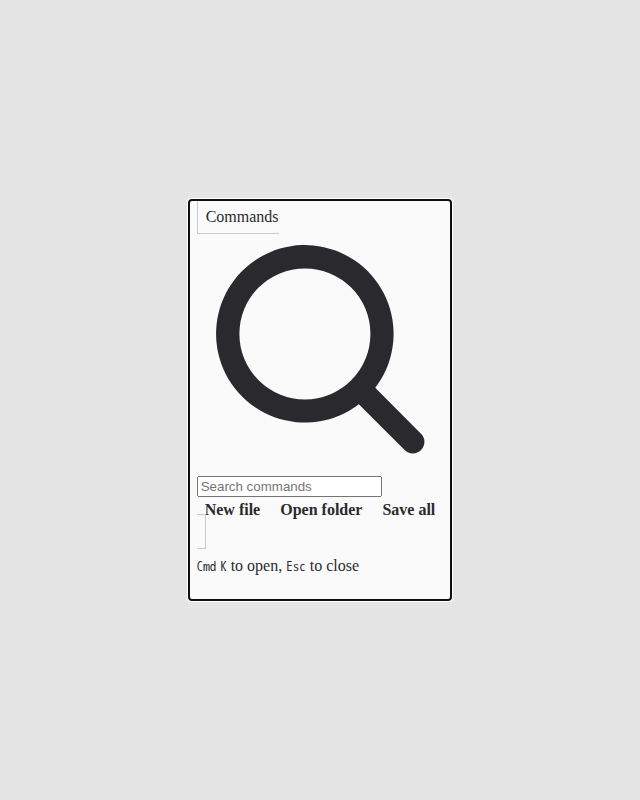
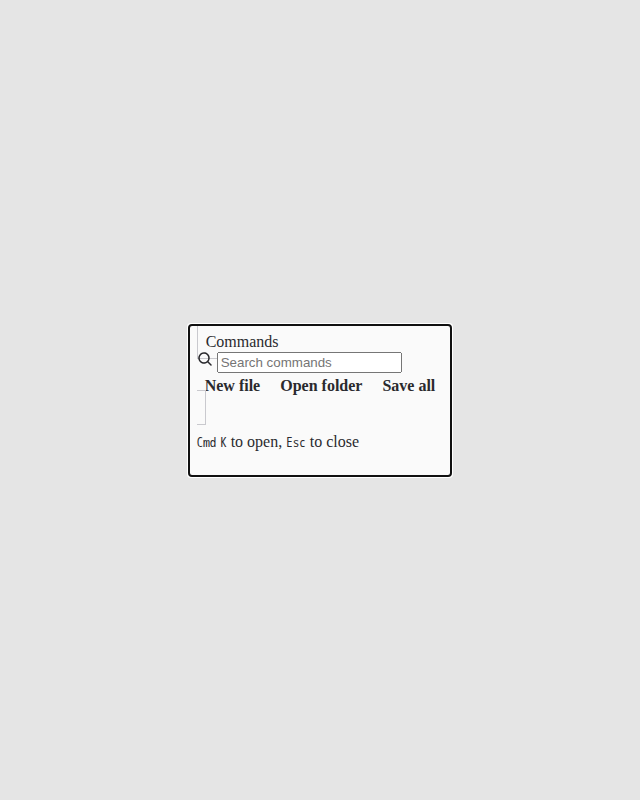
fix(helix/command): export the one part it draws through
160. The headless Command drew its filter mark at 247 by 247 where the styled one
draws 16, and the export was the fault rather than the size.

Every glyph the headless tier draws is unsized: twelve of them, across Accordion,
Announcement, Callout, Drilldown, Menu, Number Input, Tag, Timeline, Toast and
Listbox, each relying on a consumer sizing it through the exported part. That is
the convention rather than an oversight, and it works wherever the part is
reachable.

Command's was not. It rendered the listbox with `exportparts="items, empty,
search, search-field"`, four of the five parts it draws through, and the fifth is
the one with a picture in it. So `filter-mark` joins the list, alphabetised, and
is declared as a `@csspart` so the manifest carries it and
`build-base-examples.mjs` writes the rule its `[a-z-]+-mark` branch already knew
how to write.

The baseline is retaken in the same commit, because a fix and its picture
disagreeing is the state this check exists to prevent.

The guard proved itself on the way: `check:visual` reported exactly one family
moved, 19,015 pixels in Command and nothing anywhere else.

Changed region(s): [[0.2812, 0.25, 0.6875, 0.5625], [0.2812, 0.5938, 0.7188, 0.75], [0.6875, 0.25, 0.7188, 0.4062]]

diff --git a/helix/headless/src/command/root/command-root.ts b/helix/headless/src/command/root/command-root.ts
@@ -73,6 +73,7 @@ const parse = (hotkey: string) => {
  * @csspart listbox - The list inside it.
  * @csspart items - The scrolling box of commands, forwarded from the listbox.
  * @csspart empty - What shows where the filter has hidden everything.
+ * @csspart filter-mark - The glyph beside the field, forwarded from the listbox.
  * @csspart search - The region holding the field that narrows the list.
  * @csspart search-field - The field itself.
  * @csspart footer - The row under the list.
@@ -311,7 +312,7 @@ export class HelixBaseCommand extends MixinControllerOpen(HelixElement) {
     >
       <${this.tag('listbox')}
         part="listbox"
-        exportparts="items, empty, search, search-field"
+        exportparts="empty, filter-mark, items, search, search-field"
         aria-label=${this.label}
         empty-text=${this.emptyText}
         filter-label=${this.placeholder}

diff --git a/helix/web/src/command/.examples/base.css b/helix/web/src/command/.examples/base.css
@@ -63,6 +63,12 @@ helix-base-command::part(items) {
   gap: 0.25rem;
 }
 
+helix-base-command::part(filter-mark) {
+  block-size: 1em;
+  flex: none;
+  inline-size: 1em;
+}
+
 helix-base-option::part(item) {
   background-color: transparent;
   border: 0;
